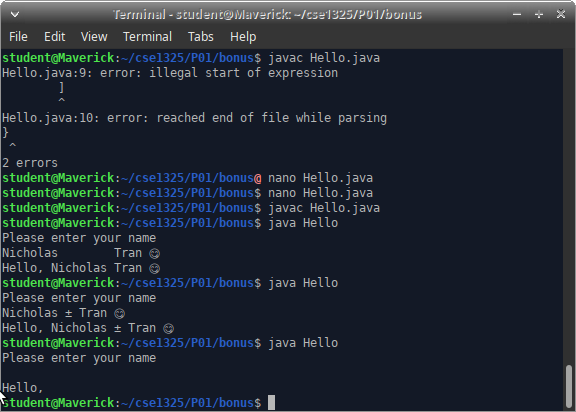
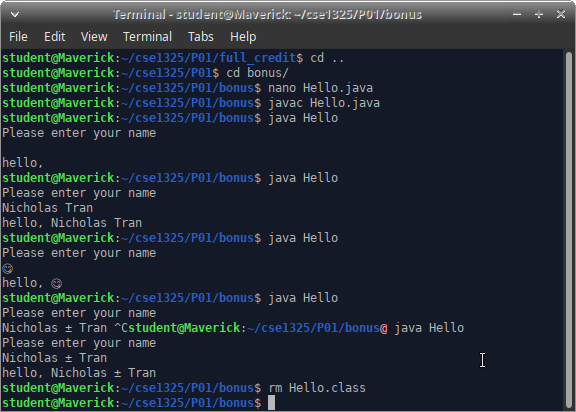
P01 bonus updated

diff --git a/P01/bonus/Hello.java b/P01/bonus/Hello.java
@@ -5,6 +5,6 @@ public class Hello{
 		Scanner scanner = new Scanner(System.in);
 		System.out.println("Please enter your name");
 		String name = scanner.nextLine();
-		System.out.println("Hello, " + name);
+		System.out.println("hello, " + name);
 	}
 }
